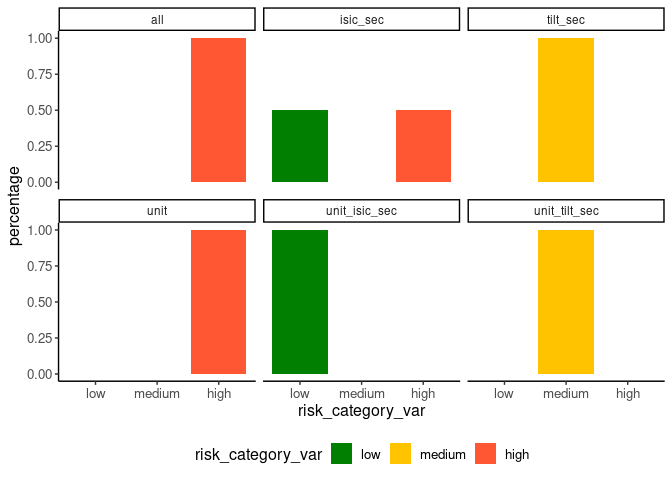
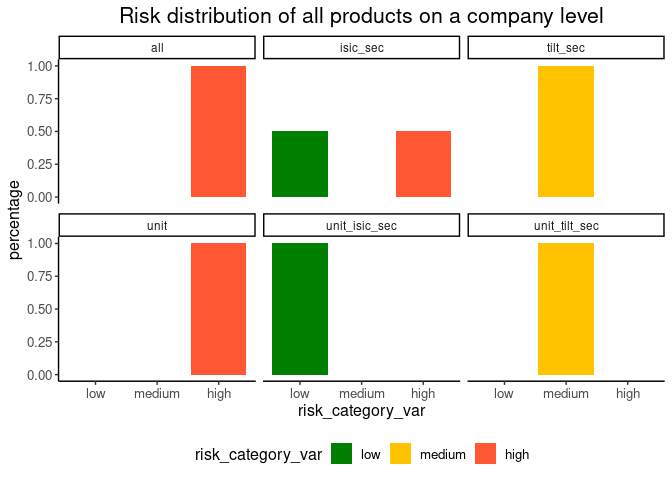
regrouped functions into one

diff --git a/README.md b/README.md
@@ -96,7 +96,7 @@ On a company level:
 
 ``` r
 fin <- financial
-plot_xctr_company_financial(fin, "peter", mode = "worst_case") +
+plot_xctr_financial(fin, "peter", mode = "worst_case") +
   labs(title = "Risk distribution of all products on a company level, on a financial weight")
 ```
 
@@ -105,8 +105,8 @@ plot_xctr_company_financial(fin, "peter", mode = "worst_case") +
 On a portfolio level:
 
 ``` r
-plot_xctr_portfolio_financial(fin, mode = "best_case") +
-  labs(title = "Risk distribution of all products on a portfolio level, best case scenario")
+plot_xctr_financial(fin, mode = "worst_case") +
+  labs(title = "Risk distribution of all products on a portfolio level, on a financial weight")
 ```
 
 <img src="man/figures/README-unnamed-chunk-9-1.png" width="100%" />
@@ -136,7 +136,8 @@ On a company level:
 ``` r
 no_fin <- without_financial
 
-plot_xctr(no_fin, "peter")
+plot_xctr(no_fin, "peter")  +
+  labs(title = "Risk distribution of all products on a company level")
 ```
 
 <img src="man/figures/README-unnamed-chunk-11-1.png" width="100%" />
@@ -144,7 +145,8 @@ plot_xctr(no_fin, "peter")
 On a portfolio level :
 
 ``` r
-plot_xctr(no_fin)
+plot_xctr(no_fin) +
+  labs(title = "Risk distribution of all products on a portfolio level")
 ```
 
 <img src="man/figures/README-unnamed-chunk-12-1.png" width="100%" />
